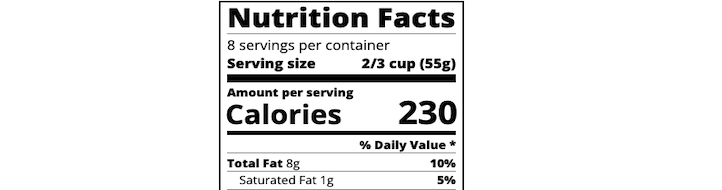
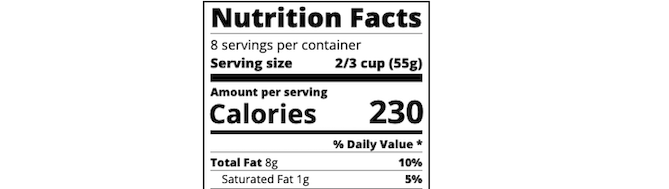
portfolio-demo added and image containers resized, new images sizes adjusted, color variables name change

diff --git a/css/style.css b/css/style.css
@@ -1,10 +1,11 @@
 :root {
-  --oyster-pink: rgb(236, 213, 207);
-  --puce: rgb(209, 143, 150);
-  --pink-rgba: rgba(236, 213, 207, 0.39);
-  --don-juan: rgb(72, 38, 48);
-  --cararra: rgb(229, 231, 223);
-  --cararra-rgba: rgba(229, 231, 223, 0.491);
+  --primary-color1: rgb(236, 213, 207);
+  --primary-color2: rgb(209, 143, 150);
+  --pc1-rgba: rgba(236, 213, 207, 0.39);
+  --font-color: rgb(72, 38, 48);
+  --secondary-color: #e5e5e5;
+  --sec-rgba: #e5e5e5f1;
+  --border-radius-50: 50%;
 }
 
 * {
@@ -16,15 +17,19 @@
 
 html {
   font-size: 62.5%;
-  background-color: var(--puce);
+  background-color: var(--primary-color2);
 }
 
 body {
-  background: linear-gradient(90deg, var(--oyster-pink), var(--puce));
+  background: linear-gradient(
+    90deg,
+    var(--primary-color1),
+    var(--primary-color2)
+  );
   font-family: "Trebuchet MS", "Lucida Sans Unicode", "Lucida Grande",
     "Lucida Sans", Arial, sans-serif;
   line-height: 1.5;
-  color: var(--don-juan);
+  color: var(--font-color);
 }
 
 h1 {
@@ -39,8 +44,7 @@ h4 {
   font-size: 2rem;
 }
 
-h5,
-.heading {
+h5 {
   font-size: 2rem;
 }
 
@@ -59,7 +63,11 @@ p {
   align-items: center;
   flex-wrap: wrap;
   padding: 2.5px 0;
-  background: linear-gradient(180deg, var(--puce), var(--oyster-pink));
+  background: linear-gradient(
+    180deg,
+    var(--primary-color2),
+    var(--primary-color1)
+  );
 }
 
 .navbar {
@@ -76,15 +84,15 @@ p {
 
 a {
   text-decoration: none;
-  font-size: 2.2rem;
-  color: var(--don-juan);
+  font-size: 2.5rem;
+  color: var(--font-color);
   font-weight: 500;
 }
 
 a:hover {
   background-image: linear-gradient(
     transparent 40%,
-    var(--oyster-pink) 94%,
+    var(--primary-color1) 94%,
     transparent 100%
   );
 }
@@ -118,9 +126,9 @@ a:hover {
 .hero-image {
   height: 420px;
   width: 400px;
-  border: 2px solid var(--pink-rgba);
-  border-radius: 50%;
-  background-color: var(--pink-rgba);
+  border: 2px solid var(--pc1-rgba);
+  border-radius: var(--border-radius-50);
+  background-color: var(--pc1-rgba);
 }
 
 .hero-banner h1 {
@@ -133,9 +141,9 @@ a:hover {
 }
 
 .connect-btn {
-  padding: 10px;
-  border-radius: 50%;
-  background-color: var(--pink-rgba);
+  padding: 0 10px;
+  border-radius: 10px;
+  background-color: var(--pc1-rgba);
   font-size: 3rem;
   font-weight: 400;
 }
@@ -158,7 +166,8 @@ a:hover {
   display: flex;
   flex-direction: column;
   width: 85%;
-  border-left: 10px solid var(--puce);
+  border-left: 10px solid var(--primary-color2);
+  border-radius: 10px;
   padding-left: 32px;
 }
 
@@ -184,29 +193,33 @@ a:hover {
 }
 
 .workGridArea {
-  border: 10px solid var(--cararra);
-  border-radius: 10px;
+  border: 6px solid var(--secondary-color);
+  border-radius: 5px;
 }
 
 .heading {
-  background-color: var(--cararra-rgba);
+  background-color: var(--sec-rgba);
   padding: 10px;
-  height: 50px;
+  height: 60px;
+  border-radius: 0 5px 5px 0;
   position: absolute;
-  top: 16px;
-  right: -1px;
-  color: black;
+  top: 12px;
+  left: -1px;
+  color: #612940;
+  font-size: 2.5rem;
+  font-weight: 500;
 }
 
 .grid-image-container,
 .grid-image-container img {
-  height: 190px;
+  height: 189px;
   width: 100%;
 }
 
 .planets--container,
 .planets--container img {
-  height: 402px;
+  height: 400px;
+  width: 100%;
 }
 
 #rotating-planets {
@@ -248,7 +261,7 @@ a:hover {
   width: 100%;
   opacity: 0;
   transition: 0.5s ease;
-  background-color: var(--pink-rgba);
+  background-color: var(--pc1-rgba);
   cursor: pointer;
 }
 
@@ -277,7 +290,11 @@ i {
 footer {
   width: 100%;
   padding: 2.5px 0;
-  background: linear-gradient(180deg, var(--oyster-pink), var(--puce));
+  background: linear-gradient(
+    180deg,
+    var(--primary-color1),
+    var(--primary-color2)
+  );
   height: 58px;
 }
 

diff --git a/index.html b/index.html
@@ -59,7 +59,7 @@
           <div class="workGrid">
             <div class="workGridArea" id="rotating-planets">
               <div class="grid-image-container planets--container">
-              <h4 class="heading">Rotating Planets</h4>
+              <h4 class="heading">rotating planets</h4>
               <a href="https://cyberrie.github.io/rotatingPlanets/" aria-label="Rotating Planets application page" class='grid-link' target="_blank"  style="margin-bottom: -9px" > <img src="./images/rotating-planets1.png" alt="Rotating Planets application snapshot"> 
               <div class="overlay overlay--planets"></div>
             </div>
@@ -68,7 +68,7 @@
           </div class="grid-flex">
             <div class="workGridArea" id="skyline">
               <div class="grid-image-container">
-              <h4 class="heading">Skyline</h4>
+              <h4 class="heading">skyline</h4>
               <a href="https://cyberrie.github.io/skyline/" aria-label="Skyline application page" target="_blank"  ><img  src="./images/skyline1.png" alt="Skyline application snapshot (night mode)">
               <div class="overlay"></div>
             </a>
@@ -77,7 +77,7 @@
 
             <div class="workGridArea" id="nutrition-label">
               <div class="grid-image-container">
-              <h4 class="heading">Nutrition Label</h4>
+              <h4 class="heading">nutrition label</h4>
           
               <a href="https://cyberrie.github.io/nutrition-label/" aria-label="Nutrition Label application page" target="_blank"   ><img src="./images/nutrition-label1.png" alt="Nutrition Label application snapshot">
               <div class="overlay"></div>
@@ -87,7 +87,7 @@
 
             <div class="workGridArea" id="quiz">
               <div class="grid-image-container">
-              <h4 class="heading">Quiz</h4>
+              <h4 class="heading">quiz</h4>
            
               <a  href="https://cyberrie.github.io/quiz/" aria-label="Quiz application page" target="_blank" ><img  src="./images/quiz1.png" alt="Quiz application snapshot">
               <div class="overlay"></div>
@@ -97,7 +97,7 @@
             
             <div class="workGridArea" id="piano">
               <div class="grid-image-container">
-              <h4 class="heading">Piano</h4>
+              <h4 class="heading">piano</h4>
             
               <a href="https://cyberrie.github.io/piano/" aria-label="Piano application page" target="_blank" ><img  src="./images/piano1.png" alt="Piano application snapshot">
               <div class="overlay"></div>
@@ -117,8 +117,8 @@
            <h4>or drop me an email at <a rel='noopener noreferrer' target='_blank' href="mailto:helena.gilje@gmail.com">helena.gilja@gmail.com</a></h4>
 
            <article class="icons">
-          <a href="tel:+447393392366"><i class="fa-solid fa-phone"></i></a>
-          <a href="https://github.com/cyberrie"><i class="fa-brands fa-github"></i></a>
+          <a href="tel:+447393392366" aria-label="Link for a mobile call"><i class="fa-solid fa-phone"></i></a>
+          <a href="https://github.com/cyberrie" aria-label="Link to a Github profile"><i class="fa-brands fa-github"></i></a>
            </article>
       </section>
   

diff --git a/README.md b/README.md
@@ -12,13 +12,13 @@
 - [Author](#author)
 - [Acknowledgments](#acknowledgments)
 
-## Overview
+## 1⃣ Overview
 
 This challenge was completed to consolidate this week's learnings (flexbox, CSS grid, media queries, and CSS variables) and create my portfolio page to showcase my skills and talents to potential employers.
 
 I will build on this as I progress through my bootcamp course.
 
-## The Challenge
+## 2⃣ The Challenge
 
 I was given some critical requirements neccessary to develop a portfolio that satisfies a typical hiring manager’s needs:
 
@@ -29,19 +29,19 @@ I was given some critical requirements neccessary to develop a portfolio that sa
 - When images of the applications are clicked then the user is taken to that deployed application
 - When the page is resized or viewed on various screens and devices then the layout is responsive and adapts to my viewport
 
-## Portfolio Demo
+## 3⃣ Portfolio Demo
 
 The following animation shows my portoflio page appearance:
 
-![portfolio demo](./images/portfolio-demo-gif.gif)
+![portfolio demo](./images/portfolio-demo1.gif)
 
-## Links
+## 4⃣ Links
 
 You will be able to see my portfolio page URL if you navigate into Settings → Pages inside this repository. Enjoy!
 
 Or, click on this link: [Helena's Portfolio Page]()
 
-## My Process
+## 5⃣ My Process
 
 I have started working on my portfolio page last week, so slightly ahead of the schedule.
 
@@ -49,7 +49,7 @@ I have used pen and paper to sketch my initial layout.
 
 For my main layout, I have decided to use flexbox and grid nested within portfolio section of my page. I now understand this can be built using grid layout fully, but I felt flexbox was more suitable for my desired design.
 
-## Built with...
+## 6⃣ Built with...
 
 - Semantic HTML5 markup
 - CSS custom properties
@@ -57,7 +57,7 @@ For my main layout, I have decided to use flexbox and grid nested within portfol
 - CSS Grid
 - Desktop-first workflow
 
-## What I learned
+## 7⃣ What I learned
 
 With this particular challenge, I have used flexbox nested within another flexbox container in my contact section.
 
@@ -71,13 +71,13 @@ In the end, I realised I have used width property on a wrong element, nested fle
 }
 ```
 
-## Continued development
+## 8⃣ Continued development
 
 I will continue working on enhancing my skills in CSS grid and start using it more often in my application as it needs less code.
 
 I will aim to build future applications with mobile-first approach as data suggests this is more preferred way as more websites are now looked up on mobile devices and it is easier to build on simpler layouts rather than working backwards from omplex layouts.
 
-## Useful Resources
+## 9⃣ Useful Resources
 
 - [HTML Semantic Elements](https://www.w3schools.com/html/html5_semantic_elements.asp) - This was a nice refresher I kept open during the initial stages to ensure I apply these in my project.
 
@@ -87,13 +87,13 @@ I will aim to build future applications with mobile-first approach as data sugge
 
 ## Author
 
-Helena Gilja
+Helena Gilja ©
 
 - Website - [Helena's Portfolio](https://www.your-site.com)
 
 - GitHub - [cyberrie](hhttps://github.com/cyberrie)
 
-## Acknowledgments
+## 🌟 Acknowledgments 🌟
 
 I would like to thank my Instructor Dane for this week's sessions and explaining flexbox and grid concepts really well.
 
